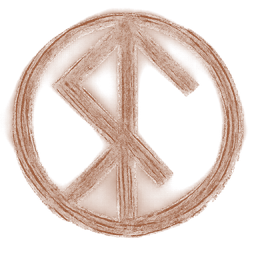
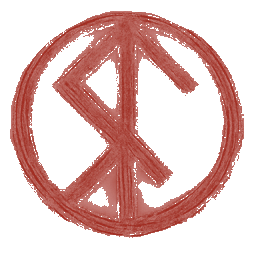
ho-08: the chop stamps in shu — deep vermilion, solid impression
Seals stamp in vermilion, not terracotta (practitioner, correctly).
Re-extracted: deep shu #9E2B20 — deliberately not the register
terracotta; a seal's red is its own convention — with a stamped-solid
alpha treatment: floor cull kills the interior watercolor wash, a steep
post-downscale gamma pushes mid-alphas toward full impression, and the
brush edges keep their raggedness. Placement opacity 0.9 → 0.95; a
chop stamps near-full.

diff --git a/src/cartouche-map.js b/src/cartouche-map.js
@@ -4,7 +4,8 @@
  * licensed. Implemented from the artifact's chosen variant, then rebalanced
  * on the plate (2026-07-12): the hachure-fan register sample retired and the
  * text block shifted left so the TRUE Sageframe chop (sf-chop.png, extracted
- * to terracotta-on-transparent from the practitioner's brush original) can
+ * from the practitioner's brush original in deep vermilion #9E2B20 — the
+ * customary seal red, deliberately NOT the register terracotta) can
  * sign large on the right — letterhead composition, type left, seal right.
  * The cream reserve remains the paint-over; the native title leads at the
  * steepest size jump; the single terracotta rule with end ticks is the one
@@ -110,7 +111,7 @@ export function cartoucheSvg(opts = {}) {
     const cy = 100 - chopSize / 2;
     g +=
       `<image href="${chopHref}" x="${cx.toFixed(1)}" y="${cy.toFixed(1)}" ` +
-      `width="${chopSize}" height="${chopSize}" opacity="0.9" preserveAspectRatio="xMidYMid meet"/>`;
+      `width="${chopSize}" height="${chopSize}" opacity="0.95" preserveAspectRatio="xMidYMid meet"/>`;
   }
 
   return `<g>${g}</g>`;
